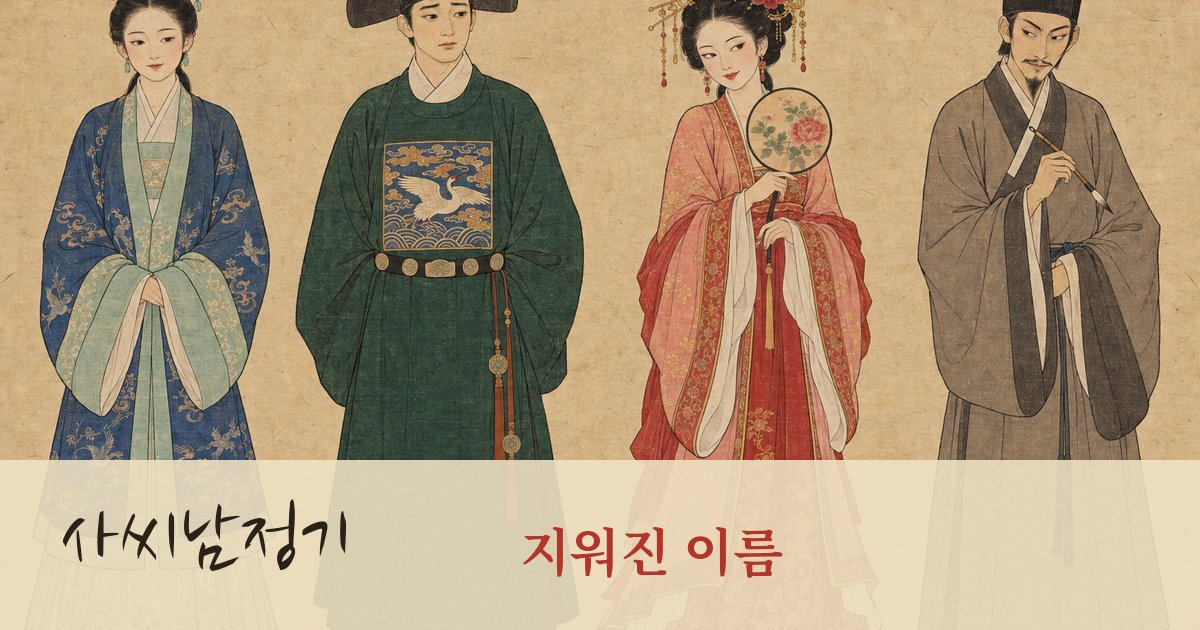
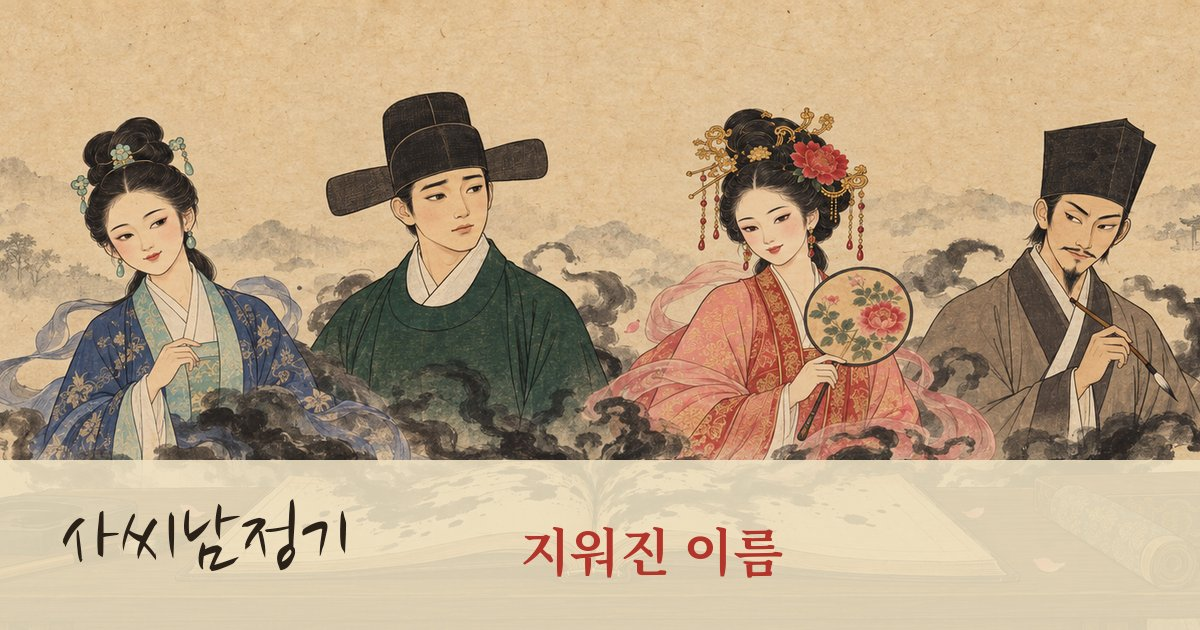
그림: 빠진 3장(재회·지도·타이틀) 넣고 흉배·옷 색 바로잡기
- 재회 장면, 남방 지도, 타이틀 그림을 새로 넣음(사용량 한도로 늦게 생성)
- 장면 그림 속 유연수의 학 흉배(1품)를 없앰: 젊은 한림학사의 품계와 맞지 않음
  (혼례·저주 사건·주막·죄를 따지는 장면, 타이틀). 장면 참조를 흉배 없는 초상으로 바꿈
- 임씨의 옷을 분홍에서 상아색·옥색 테두리로 바꿈: 분홍은 교씨의 색이라 혼동 방지

diff --git a/tools/make_prompts.py b/tools/make_prompts.py
@@ -13,6 +13,9 @@ PDIR = os.path.join(ROOT, "tools", "prompts")
 os.makedirs(PDIR, exist_ok=True)
 
 LINEUP = "design/style-samples/style_a_minhwa.png"
+# 장면 그림의 인물 참조: 흉배 없는 초상 4장. 화풍 시안의 유연수는 1품 학 흉배를 달고 있어
+# 젊은 한림학사의 품계와 맞지 않으므로 장면 참조로 쓰지 않는다.
+CAST = "design/ref/ref_cast_nobadge.png"
 REF = {
     "sassi": "design/ref/ref_sassi.png",
     "yeonsu": "design/ref/ref_yeonsu.png",
@@ -38,6 +41,11 @@ PORTRAIT = (
     "nothing else on it.\n\nCharacter: "
 )
 
+NOBADGE = (
+    " Any official in a dark green or dark robe wears a PLAIN robe with NO rank badge and no embroidered bird on the chest."
+    " Nobody wears a dragon robe."
+)
+
 SCENE = (
     "Wide illustration of one scene from a classical novel, for a mobile story game. Clear readable composition, "
     "figures large enough to recognize, calm areas of background around the figures.\n\nScene: "
@@ -52,8 +60,8 @@ def portrait(name, desc, ref=LINEUP, mode="style", ming=True):
     M.append((name, "1024x1024", ref, mode))
 
 
-def scene(name, desc, size="1536x1024", ref=LINEUP, mode="scene", ming=True):
-    P[name] = SCENE + desc + "\n\n" + STYLE + (MING if ming else "")
+def scene(name, desc, size="1536x1024", ref=CAST, mode="scene", ming=True):
+    P[name] = SCENE + desc + "\n\n" + STYLE + (MING if ming else "") + NOBADGE
     M.append((name, size, ref, mode))
 
 
@@ -108,7 +116,7 @@ portrait("pt_jangju", "Baby Jang-ju, a chubby healthy infant peacefully asleep, 
 portrait("pt_nun", "The Buddhist nun, a woman about 50 with a shaved head, serene and compassionate face, grey Buddhist robe "
          "with a brown kasaya over one shoulder, holding wooden prayer beads.")
 portrait("pt_imssi", "Lady Im, a kind young woman about 20 with a gentle modest face, simple hair bun with a small white "
-         "flower, plain pale peach-white robe.")
+         "flower, plain pale ivory-white robe with light jade-green trim. Her clothes must NOT be pink or red.")
 portrait("pt_eomsung", "Grand Secretary Eom, a powerful elderly Ming minister about 65 with a greedy, cunning face, thin long "
          "white beard, black official gauze hat with side wings, crimson official robe with an embroidered crane rank badge.")
 portrait("pt_consorts", "Ehuang and Nuying, the two legendary consorts of the ancient sage Emperor Shun, shown as two divine "
@@ -167,7 +175,7 @@ scene("sc_judgment", "A grand hall of a Ming-dynasty official residence: a stern
       "at a raised table; below him a woman in faded, worn pink robes kneels on the floor with her head bowed; servants "
       "stand at both sides; the lady in indigo-blue sits apart behind a painted folding screen.")
 scene("sc_reunion", "A warm courtyard of a Ming-dynasty mansion in spring with plum blossoms: the lady in rich indigo-blue "
-      "robes embraces a boy of about 7 in a pale sky-blue robe; a young woman in pale peach-white and an elderly nurse "
+      "robes embraces a boy of about 7 in a pale sky-blue robe; a young woman in a pale ivory-white robe with light jade-green trim (NOT pink) and an elderly nurse "
       "smile beside them.")
 
 # ---------- 지도·표지·질감 ----------
